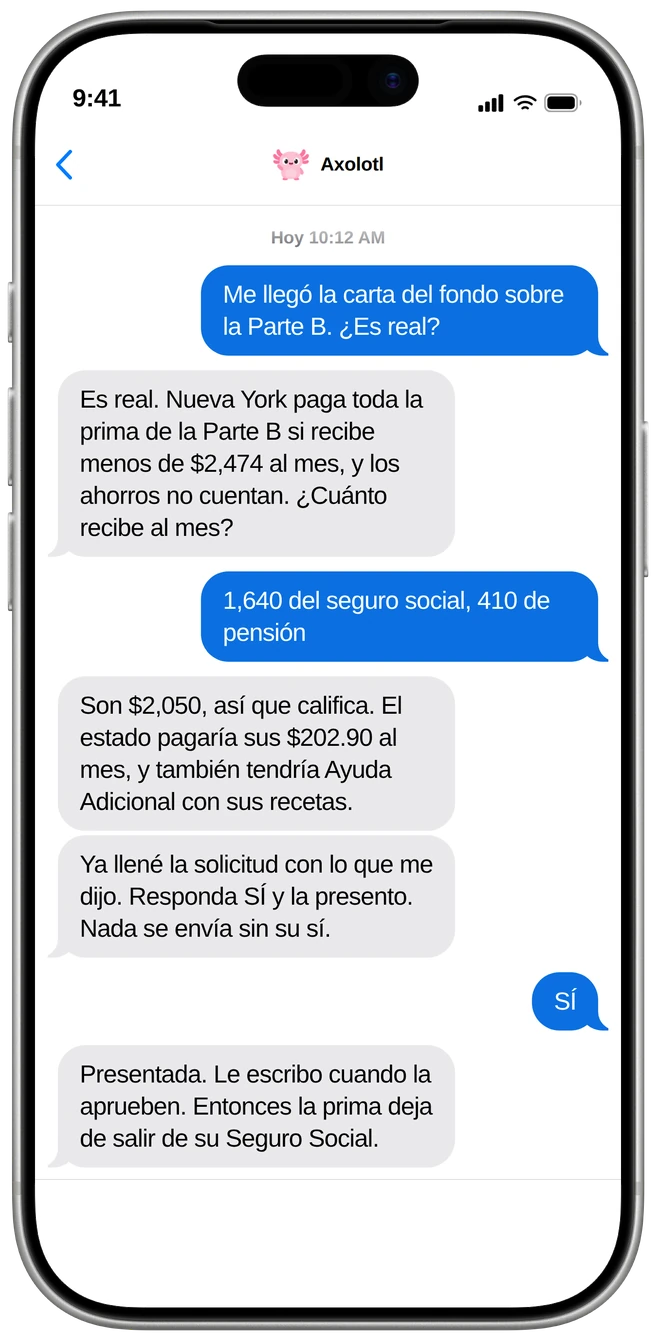
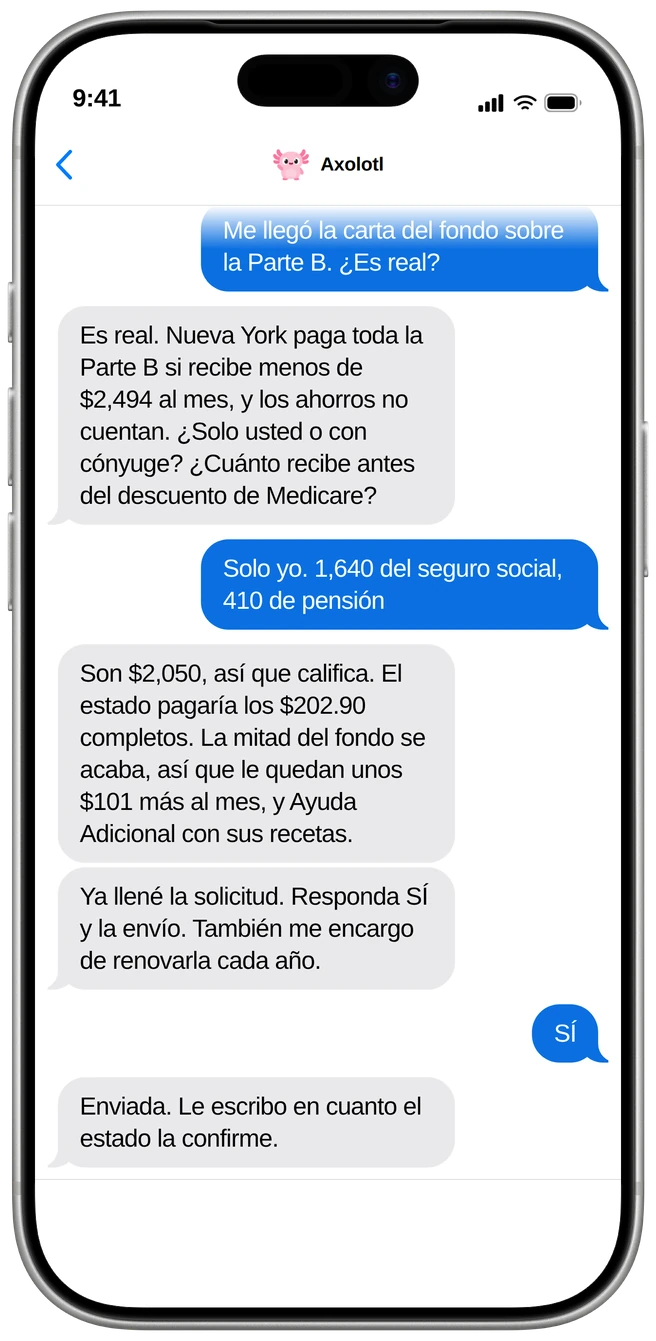
Apply the homepage review: accurate phone script and safer framing
- Hero phone (EN + ES): the gross limit a member compares against
  ($2,494), asks single or couple and income before Medicare is taken
  out, says the fund's half stops so she keeps about $101 a month more
  plus Extra Help, promises the yearly QI renewal, and ends with "Sent,
  I'll text you when the state confirms" instead of "Filed".
- Headline: "bills Medicare and the state would cover"; the sub leads
  with members who are owed help, "the fund stops being the first
  payer", and "help with disability claims" instead of "disability
  checks". Share cards re-rendered.
- Money table and /members say a member gets their share back, and that
  a fund's partial reimbursement stops when the state pays.
- The scan form asks for participants, Medicare retirees, states, and
  self-administered or TPA.
- Verification doc records the 2026 NY limits, QI rules and the SSA
  third-party fee path for disability help.

Claude-Session: https://claude.ai/code/session_01Rjhn6k3XVJ6XCG1owazne2

Changed region(s): [[0.122, 0.1529, 0.9146, 0.7338], [0.122, 0.7949, 0.6707, 0.8561], [0.7927, 0.7032, 0.9451, 0.7949]]

diff --git a/public/es.html b/public/es.html
@@ -4,7 +4,7 @@
     <meta charset="utf-8" />
     <meta name="viewport" content="width=device-width, initial-scale=1" />
     <title>Axolotl: que pague quien debe pagar, para fondos de beneficios sindicales</title>
-    <meta name="description" content="Axolotl encuentra a los miembros cuyos gastos le corresponden a Medicare, al Seguro Social o al estado, y los inscribe desde su lado, por texto, con su sí. Los miembros reciben cheques por discapacidad, primas más bajas y medicinas más baratas. El fondo deja de pagar primero. Se paga por aprobación." />
+    <meta name="description" content="Axolotl encuentra a los miembros a quienes Medicare, el Seguro Social o el estado les deben ayuda, y los inscribe desde su lado, por texto, con su sí. Los miembros reciben primas más bajas, medicinas más baratas y ayuda con sus reclamos por discapacidad. El fondo deja de ser el primero en pagar. Se paga por aprobación." />
     <meta name="theme-color" content="#FAD6B6" />
     <link rel="canonical" href="https://www.get-axolotl.com/es" />
     <link rel="alternate" hreflang="en" href="https://www.get-axolotl.com/" />
@@ -16,7 +16,7 @@
     <meta property="og:locale" content="es_US" />
     <meta property="og:locale:alternate" content="en_US" />
     <meta property="og:title" content="Axolotl: que pague quien debe pagar, para fondos de beneficios sindicales" />
-    <meta property="og:description" content="Axolotl encuentra a los miembros cuyos gastos le corresponden a Medicare, al Seguro Social o al estado, y los inscribe desde su lado, por texto, con su sí. Los miembros reciben cheques por discapacidad, primas más bajas y medicinas más baratas. El fondo deja de pagar primero. Se paga por aprobación." />
+    <meta property="og:description" content="Axolotl encuentra a los miembros a quienes Medicare, el Seguro Social o el estado les deben ayuda, y los inscribe desde su lado, por texto, con su sí. Los miembros reciben primas más bajas, medicinas más baratas y ayuda con sus reclamos por discapacidad. El fondo deja de ser el primero en pagar. Se paga por aprobación." />
     <meta property="og:image" content="https://www.get-axolotl.com/share-es.png" />
     <meta property="og:image:alt" content="El reporte mensual de Axolotl para un fondo: primas de la Parte B que ahora paga el estado, solicitudes por discapacidad presentadas, miembros que cumplen 65 inscritos a tiempo." />
     <meta property="og:image:width" content="1200" />
@@ -63,8 +63,8 @@
       <div class="wrap split hero-fund-split">
         <div class="split-copy">
           <p class="schools-eyebrow">Para fondos de beneficios sindicales</p>
-          <h1 id="hero-title">Su fondo paga cuentas <em>que deberían pagar Medicare y el estado.</em></h1>
-          <p class="lead">Axolotl encuentra a los miembros cuyos gastos le corresponden a Medicare, al Seguro Social o al estado, y los inscribe desde su lado, por texto, con su sí. Los miembros reciben cheques por discapacidad, primas más bajas y medicinas más baratas. El fondo deja de pagar primero. Usted paga solo por aprobaciones.</p>
+          <h1 id="hero-title">Su fondo paga cuentas <em>que cubrirían Medicare y el estado.</em></h1>
+          <p class="lead">Axolotl encuentra a los miembros a quienes Medicare, el Seguro Social o el estado les deben ayuda, y los inscribe desde su lado, por texto, con su sí. Los miembros reciben primas más bajas, medicinas más baratas y ayuda con sus reclamos por discapacidad. El fondo deja de ser el primero en pagar. Usted paga solo por aprobaciones.</p>
           <div class="hero-actions">
             <a class="button primary" href="#school-contact">Pedir una revisión gratis</a>
             <a class="text-link" href="#money">Ver a dónde va el dinero</a>
@@ -72,7 +72,7 @@
           <p class="trust-line">Para fondos de salud y bienestar sindicales. Se paga por aprobación.</p>
         </div>
         <div class="fund-phone">
-          <img class="device" src="/hero-phone-es.webp?v=e5a7f0a867ab0442" width="328" height="670" alt="Conversación de texto en un teléfono. Una jubilada pregunta si la carta del fondo sobre la Parte B es real. Axolotl le dice que Nueva York paga toda la prima de la Parte B con ingresos de menos de $2,474 al mes y le pregunta sus ingresos. Recibe $2,050, así que califica: el estado pagaría sus $202.90 al mes y tendría Ayuda Adicional con sus recetas. Axolotl ya llenó la solicitud y le pide su sí; ella responde SÍ y queda presentada." decoding="async" fetchpriority="high" />
+          <img class="device" src="/hero-phone-es.webp?v=bc9bec8d4613ea1a" width="328" height="670" alt="Conversación de texto en un teléfono. Una jubilada pregunta si la carta del fondo sobre la Parte B es real. Axolotl le dice que Nueva York paga toda la prima de la Parte B con ingresos de menos de $2,494 al mes y le pregunta si es solo ella y cuánto recibe antes del descuento de Medicare. Recibe $2,050 sola, así que califica: el estado pagaría los $202.90 completos, la mitad del fondo se acaba y le quedan unos $101 más al mes, más Ayuda Adicional con sus recetas. Axolotl ya llenó la solicitud y se encargará de la renovación anual; ella responde SÍ, se envía, y Axolotl le escribirá cuando el estado la confirme." decoding="async" fetchpriority="high" />
         </div>
       </div>
     </section>
@@ -99,7 +99,7 @@
             <td data-label="Cuándo">Un jubilado por debajo del límite de ingresos del estado</td>
             <td data-label="Quién paga hoy">El fondo, que reembolsa la prima de la Parte B</td>
             <td data-label="Quién debería pagar">El estado, con un Programa de Ahorros de Medicare</td>
-            <td data-label="Lo que recibe el miembro">$202.90 al mes de vuelta, y Ayuda Adicional con las recetas</td>
+            <td data-label="Lo que recibe el miembro">Su parte de la prima de vuelta, y Ayuda Adicional con las recetas</td>
           </tr>
           <tr>
             <td data-label="Cuándo">Una prima de la Parte B que ya paga otro, o después de una muerte</td>
@@ -157,7 +157,7 @@
       <div class="wrap split">
         <div class="split-copy">
           <h2 id="example-title">Una jubilada, <em>una carta, siete mensajes.</em></h2>
-          <p class="lead">El teléfono de arriba, en Nueva York, donde un Programa de Ahorros de Medicare cubre a una persona sola con ingresos de hasta $2,474 al mes, y los ahorros no cuentan. El fondo envía una carta con el número. Lo demás pasa por texto.</p>
+          <p class="lead">El teléfono de arriba, en Nueva York, donde un Programa de Ahorros de Medicare cubre a una persona sola con ingresos de hasta unos $2,494 al mes antes de descuentos, y los ahorros no cuentan. El fondo envía una carta con el número. Lo demás pasa por texto.</p>
         </div>
         <article class="brief-card" aria-labelledby="example-brief-title">
             <p class="door-label"><span id="example-brief-title">Lo que vale una aprobación</span><span>Cifras de 2026</span></p>
@@ -169,7 +169,7 @@
     <section class="section t-afternoon" id="disability" aria-labelledby="disability-title">
       <div class="wrap split">
         <figure class="fund-phone">
-          <img class="device" src="/phone-es.webp?v=e5a7f0a867ab0442" width="328" height="670" alt="Conversación de texto en un teléfono. Axolotl le dice a un miembro que su fondo necesita una aprobación del Seguro Social por discapacidad para pagarle su pensión por discapacidad. Nunca la ha solicitado. Axolotl le pide sus médicos y su último día de trabajo: el Dr. Okafor, 14 de marzo. Axolotl muestra la solicitud lista y le pide su sí; él responde SÍ y queda presentada, confirmación 4417." decoding="async" loading="lazy" />
+          <img class="device" src="/phone-es.webp?v=bc9bec8d4613ea1a" width="328" height="670" alt="Conversación de texto en un teléfono. Axolotl le dice a un miembro que su fondo necesita una aprobación del Seguro Social por discapacidad para pagarle su pensión por discapacidad. Nunca la ha solicitado. Axolotl le pide sus médicos y su último día de trabajo: el Dr. Okafor, 14 de marzo. Axolotl muestra la solicitud lista y le pide su sí; él responde SÍ y queda presentada, confirmación 4417." decoding="async" loading="lazy" />
           <figcaption class="caption">Conversación de ejemplo. Miembro y fondo ficticios.</figcaption>
         </figure>
         <div class="split-copy">
@@ -266,7 +266,7 @@
               <input id="school-email" name="email" type="email" autocomplete="email" maxlength="254" required aria-describedby="school-error" />
             </div>
             <div class="field">
-              <label for="school-message">¿Cuántos miembros y jubilados, más o menos, y en qué estados? <span class="hint">(opcional)</span></label>
+              <label for="school-message">¿Cuántos participantes y jubilados con Medicare, en qué estados, y el fondo se administra solo o con un administrador externo (TPA)? <span class="hint">(opcional)</span></label>
               <textarea id="school-message" name="message" maxlength="1980" rows="4" aria-describedby="school-error"></textarea>
             </div>
             <button class="button primary" type="submit">Enviar</button>

diff --git a/public/index.html b/public/index.html
@@ -4,7 +4,7 @@
     <meta charset="utf-8" />
     <meta name="viewport" content="width=device-width, initial-scale=1" />
     <title>Axolotl: the right payer, for union benefit funds</title>
-    <meta name="description" content="Axolotl finds the members whose costs belong to Medicare, Social Security or the state, and enrolls them from their side, by text, with their yes. Members get disability checks, lower premiums and cheaper prescriptions. The fund stops paying first. Paid per approval." />
+    <meta name="description" content="Axolotl finds the members who are owed help from Medicare, Social Security or the state, and enrolls them from their side, by text, with their yes. Members get lower premiums, cheaper prescriptions and help with disability claims. The fund stops being the first payer. Paid per approval." />
     <meta name="theme-color" content="#FAD6B6" />
     <link rel="canonical" href="https://www.get-axolotl.com/" />
     <link rel="alternate" hreflang="en" href="https://www.get-axolotl.com/" />
@@ -16,7 +16,7 @@
     <meta property="og:locale" content="en_US" />
     <meta property="og:locale:alternate" content="es_US" />
     <meta property="og:title" content="Axolotl: the right payer, for union benefit funds" />
-    <meta property="og:description" content="Axolotl finds the members whose costs belong to Medicare, Social Security or the state, and enrolls them from their side, by text, with their yes. Members get disability checks, lower premiums and cheaper prescriptions. The fund stops paying first. Paid per approval." />
+    <meta property="og:description" content="Axolotl finds the members who are owed help from Medicare, Social Security or the state, and enrolls them from their side, by text, with their yes. Members get lower premiums, cheaper prescriptions and help with disability claims. The fund stops being the first payer. Paid per approval." />
     <meta property="og:image" content="https://www.get-axolotl.com/share.png" />
     <meta property="og:image:alt" content="A fund’s monthly ledger from Axolotl: Part B premiums moved to the state, disability awards filed, members turning 65 enrolled on time." />
     <meta property="og:image:width" content="1200" />
@@ -63,8 +63,8 @@
       <div class="wrap split hero-fund-split">
         <div class="split-copy">
           <p class="schools-eyebrow">For union benefit funds</p>
-          <h1 id="hero-title">Your fund pays bills <em>Medicare and the state should pay.</em></h1>
-          <p class="lead">Axolotl finds the members whose costs belong to Medicare, Social Security or the state, and gets them enrolled from their side, by text, with their yes. Members get disability checks, lower premiums and cheaper prescriptions. The fund stops paying first. You pay only for approvals.</p>
+          <h1 id="hero-title">Your fund pays bills <em>Medicare and the state would cover.</em></h1>
+          <p class="lead">Axolotl finds the members who are owed help from Medicare, Social Security or the state, and gets them enrolled from their side, by text, with their yes. Members get lower premiums, cheaper prescriptions and help with disability claims. The fund stops being the first payer. You pay only for approvals.</p>
           <div class="hero-actions">
             <a class="button primary" href="#school-contact">Get a free scan</a>
             <a class="text-link" href="#money">See where the money goes</a>
@@ -72,7 +72,7 @@
           <p class="trust-line">For union health and welfare funds. Paid per approval.</p>
         </div>
         <div class="fund-phone">
-          <img class="device" src="/hero-phone-en.webp?v=e5a7f0a867ab0442" width="328" height="670" alt="Text thread on a phone. A retiree asks if the fund’s letter about Part B is real. Axolotl says New York pays the whole Part B premium under $2,474 a month and asks her income. She has $2,050, so she qualifies: the state would pay her $202.90 a month and she would get Extra Help with prescriptions. Axolotl has filled in the application and asks for her yes; she replies YES and it is filed." decoding="async" fetchpriority="high" />
+          <img class="device" src="/hero-phone-en.webp?v=bc9bec8d4613ea1a" width="328" height="670" alt="Text thread on a phone. A retiree asks if the fund’s letter about Part B is real. Axolotl says New York pays the whole Part B premium under $2,494 a month and asks whether it is just her and what comes in before Medicare is taken out. She has $2,050 alone, so she qualifies: the state would pay all $202.90, the fund’s half stops, and she keeps about $101 more a month plus Extra Help with prescriptions. Axolotl has filled in the application and will handle the yearly renewal; she replies YES, it is sent, and Axolotl will text when the state confirms." decoding="async" fetchpriority="high" />
         </div>
       </div>
     </section>
@@ -99,7 +99,7 @@
             <td data-label="When">A retiree under the state income limit</td>
             <td data-label="Who pays now">The fund, reimbursing the Part B premium</td>
             <td data-label="Who should pay">The state, through a Medicare Savings Program</td>
-            <td data-label="What the member gets">$202.90 a month back, and Extra Help with prescriptions</td>
+            <td data-label="What the member gets">Their share of the premium back, and Extra Help with prescriptions</td>
           </tr>
           <tr>
             <td data-label="When">A Part B premium someone else already pays, or after a death</td>
@@ -157,7 +157,7 @@
       <div class="wrap split">
         <div class="split-copy">
           <h2 id="example-title">One retiree, <em>one letter, seven texts.</em></h2>
-          <p class="lead">The phone at the top of this page, in New York, where a Medicare Savings Program covers one person with up to $2,474 a month in income, and savings don’t count. The fund mails one letter with the number. The rest happens by text.</p>
+          <p class="lead">The phone at the top of this page, in New York, where a Medicare Savings Program covers one person with up to about $2,494 a month before deductions, and savings don’t count. The fund mails one letter with the number. The rest happens by text.</p>
         </div>
         <article class="brief-card" aria-labelledby="example-brief-title">
             <p class="door-label"><span id="example-brief-title">What one approval is worth</span><span>2026 figures</span></p>
@@ -169,7 +169,7 @@
     <section class="section t-afternoon" id="disability" aria-labelledby="disability-title">
       <div class="wrap split">
         <figure class="fund-phone">
-          <img class="device" src="/phone-en.webp?v=e5a7f0a867ab0442" width="328" height="670" alt="Text conversation on a phone. Axolotl tells a member that his fund needs a Social Security disability award to pay his disability pension. He has never applied. Axolotl asks for his doctors and last day of work, which he gives: Dr. Okafor, March 14. Axolotl shows the ready-to-file application and asks for his yes; he replies YES, and it is filed with confirmation 4417." decoding="async" loading="lazy" />
+          <img class="device" src="/phone-en.webp?v=bc9bec8d4613ea1a" width="328" height="670" alt="Text conversation on a phone. Axolotl tells a member that his fund needs a Social Security disability award to pay his disability pension. He has never applied. Axolotl asks for his doctors and last day of work, which he gives: Dr. Okafor, March 14. Axolotl shows the ready-to-file application and asks for his yes; he replies YES, and it is filed with confirmation 4417." decoding="async" loading="lazy" />
           <figcaption class="caption">Example conversation. Fictional member and fund.</figcaption>
         </figure>
         <div class="split-copy">
@@ -266,7 +266,7 @@
               <input id="school-email" name="email" type="email" autocomplete="email" maxlength="254" required aria-describedby="school-error" />
             </div>
             <div class="field">
-              <label for="school-message">Roughly how many members and retirees, and in which states? <span class="hint">(optional)</span></label>
+              <label for="school-message">How many participants and Medicare retirees, in which states, and is the fund self-administered or with a TPA? <span class="hint">(optional)</span></label>
               <textarea id="school-message" name="message" maxlength="1980" rows="4" aria-describedby="school-error"></textarea>
             </div>
             <button class="button primary" type="submit">Send</button>

diff --git a/public/es/members.html b/public/es/members.html
@@ -62,7 +62,7 @@
       <div class="wrap">
         <p class="schools-eyebrow">Para miembros y jubilados sindicales</p>
         <h1 id="members-hero-title">Su fondo lo envió aquí. <em>Esto es lo que somos.</em></h1>
-        <p class="lead">Axolotl trabaja con su fondo de beneficios para ayudar a los miembros a recibir lo que les corresponde de Medicare, del Seguro Social y del estado: primas más bajas, cheques por discapacidad, ayuda con las recetas. Usted escribe. Nosotros llenamos los formularios. Nada se envía sin su sí. Es gratis para usted.</p>
+        <p class="lead">Axolotl trabaja con su fondo de beneficios para ayudar a los miembros a recibir lo que les corresponde de Medicare, del Seguro Social y del estado: primas más bajas, ayuda con las recetas, ayuda con reclamos por discapacidad. Usted escribe. Nosotros llenamos los formularios. Nada se envía sin su sí. Es gratis para usted.</p>
         <div class="hero-actions">
           <a class="button primary" href="#join">Recibir un mensaje</a>
         </div>
@@ -72,7 +72,7 @@
       <div class="wrap">
         <h2 id="help-title">Con qué le podemos ayudar</h2>
         <div class="never-grid">
-          <article><h3>Su prima de Medicare</h3><p>Si sus ingresos están por debajo del límite de su estado, el estado puede pagar su prima de la Parte B: $202.90 al mes en 2026.</p></article>
+          <article><h3>Su prima de Medicare</h3><p>Si sus ingresos están por debajo del límite de su estado, el estado puede pagar su prima de la Parte B: $202.90 al mes en 2026. Si hoy su fondo le devuelve una parte, eso se acaba, y usted igual sale ganando.</p></article>
           <article><h3>Recetas</h3><p>La Ayuda Adicional baja lo que paga por sus medicinas. Quien está en un Programa de Ahorros de Medicare la recibe automáticamente.</p></article>
           <article><h3>Discapacidad</h3><p>Si no puede trabajar, le ayudamos a solicitar la discapacidad del Seguro Social y le enviamos la aprobación a su fondo.</p></article>
           <article><h3>Al cumplir 65</h3><p>Le ayudamos a inscribirse en Medicare a tiempo, sin huecos y sin multa.</p></article>

diff --git a/public/members.html b/public/members.html
@@ -62,7 +62,7 @@
       <div class="wrap">
         <p class="schools-eyebrow">For union members and retirees</p>
         <h1 id="members-hero-title">Your fund sent you here. <em>Here’s who we are.</em></h1>
-        <p class="lead">Axolotl works with your benefit fund to help members get what they’re owed from Medicare, Social Security and the state: lower premiums, disability checks, help with prescriptions. You text. We fill in the forms. Nothing is sent without your yes. It’s free to you.</p>
+        <p class="lead">Axolotl works with your benefit fund to help members get what they’re owed from Medicare, Social Security and the state: lower premiums, help with prescriptions, help with disability claims. You text. We fill in the forms. Nothing is sent without your yes. It’s free to you.</p>
         <div class="hero-actions">
           <a class="button primary" href="#join">Get a text from us</a>
         </div>
@@ -72,7 +72,7 @@
       <div class="wrap">
         <h2 id="help-title">What we can help with</h2>
         <div class="never-grid">
-          <article><h3>Your Medicare premium</h3><p>If your income is under your state’s limit, the state may pay your Part B premium: $202.90 a month in 2026.</p></article>
+          <article><h3>Your Medicare premium</h3><p>If your income is under your state’s limit, the state may pay your Part B premium: $202.90 a month in 2026. If your fund pays back part of it today, that stops, and you still come out ahead.</p></article>
           <article><h3>Prescriptions</h3><p>Extra Help lowers what you pay for medicines. Anyone in a Medicare Savings Program gets it automatically.</p></article>
           <article><h3>Disability</h3><p>If you can’t work, we help you apply for Social Security disability and send the award to your fund.</p></article>
           <article><h3>Turning 65</h3><p>We help you sign up for Medicare on time, so there’s no gap and no late penalty.</p></article>

diff --git a/docs/FUNDS-PROBLEM-VERIFICATION.md b/docs/FUNDS-PROBLEM-VERIFICATION.md
@@ -367,3 +367,46 @@ been independently checked yet.**
 - Accident liability: a vendor claims 5–6% of paid claims. Unverified.
 - Group Part D low-income subsidy capture: depends on the drug plan contract.
   Unverified.
+
+## Review fixes (October 2026)
+
+**New York Medicare Savings Program limits for 2026** (verified,
+[NLS](https://nls.org/app/uploads/2025/05/Medicare-Savings-Programs-2026-FINAL-3-9-26.pdf))
+
+| Program | One person | Couple |
+|---|---|---|
+| QMB | up to $1,836 | up to $2,489 |
+| QI-1 | $1,836–2,474 | $2,489–3,355 |
+
+- These limits are countable income, after the $20 disregard. So a member
+  compares about **$2,494** (single) or **about $3,375** (couple) against
+  their gross checks.
+- Income counts *before* Part B is taken out of Social Security.
+- QI pays Part B only, renews every year, and is first-come, first-served.
+- The homepage phone now:
+  - uses $2,494
+  - asks whether it's just the member or a spouse too
+  - asks for income before Medicare is taken out
+  - says the fund's half stops, so the member keeps about $101 a month more,
+    plus Extra Help
+  - promises the yearly renewal
+  - ends with "Sent … when the state confirms", not "Filed"
+
+**SSDI help** (verified)
+- Helping someone fill out an application doesn't require being an appointed
+  representative.
+  ([AARP](https://www.aarp.org/retirement/social-security/questions-answers/help-applying-for-disability-benefits.html))
+- A third party can pay a representative without SSA authorizing the fee, if
+  all of these hold:
+  - the claimant owes nothing
+  - a third-party entity pays
+  - the representative waives fees from the claimant on SSA-1696-U4
+  - ([POMS GN 03920.010](https://secure.ssa.gov/POMS.nsf/lnx/0203920010))
+- A fund paying per award can fit this. Confirm it with counsel before
+  selling disability.
+- The hero now says "help with disability claims," not "disability checks."
+
+**Framing for 1199**
+- The headline now says "would cover," not "should pay."
+- The sub leads with "members who are owed help."
+- Both work for a union that defends Medicaid funding in public.
